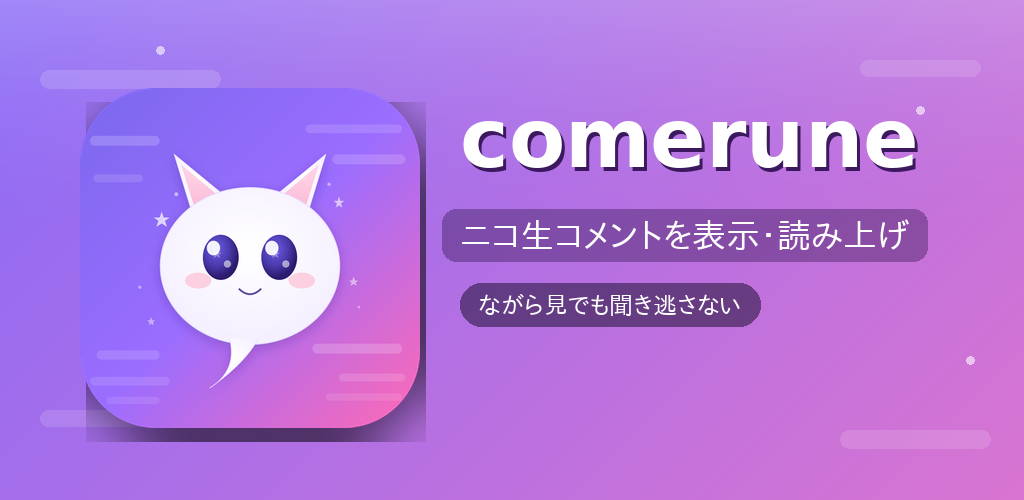
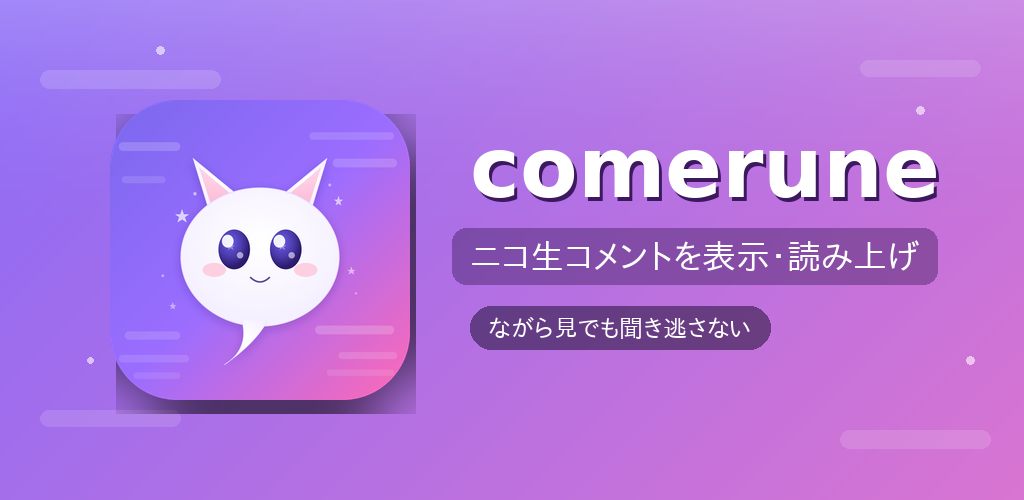
fix(play-store): improve vertical whitespace balance
- アイコンを 340px → 300px に縮小し、上下に約100pxの余白を確保
- 右側セーフゾーンを 80px に調整（タイトルに少し余裕を持たせる）
- テキストブロック（タイトル/サブコピー/ピル）を視覚的に中央配置するよう
  ブロック高さを先に計算してから Y 座標を決定する方式に変更

https://claude.ai/code/session_01Lvd1uykLmiU1AKgUGvPr9s

Changed region(s): [[0.0625, 0.15, 0.9375, 0.9]]

diff --git a/scripts/generate-play-store-feature-graphic.py b/scripts/generate-play-store-feature-graphic.py
@@ -136,19 +136,20 @@ def main() -> int:
     add_decorative_bars(bg)
 
     icon = Image.open(ICON_PATH).convert("RGBA")
-    icon_size = 340
+    icon_size = 300
     icon = icon.resize((icon_size, icon_size), Image.LANCZOS)
     icon = round_corners(icon, radius=int(icon_size * 0.22))
     icon_with_shadow = drop_shadow(icon, offset=(6, 14), blur=22, opacity=140)
 
-    icon_x = 80 - 44
-    icon_y = (H - icon_size) // 2 - 36
+    shadow_pad = 22 * 2
+    icon_x = 110 - shadow_pad
+    icon_y = (H - icon_size) // 2 - shadow_pad
     bg.alpha_composite(icon_with_shadow, (icon_x, icon_y))
 
     draw = ImageDraw.Draw(bg)
 
-    safe_right = 100
-    text_left = 460
+    safe_right = 80
+    text_left = 470
 
     title = "comerune"
     title_font = load_latin_font(110)
@@ -158,43 +159,56 @@ def main() -> int:
     if title_w > max_title_w:
         title_font = load_latin_font(int(110 * max_title_w / title_w))
         tbbox = draw.textbbox((0, 0), title, font=title_font)
-    tx = text_left
-    ty = 90
-    draw.text((tx + 3, ty + 4), title, font=title_font, fill=(60, 25, 95, 160))
-    draw.text((tx, ty), title, font=title_font, fill=(255, 255, 255, 255))
-
-    title_ascent, title_descent = title_font.getmetrics()
-    title_bottom_y = ty + title_ascent + title_descent
+    title_visual_top = tbbox[1]
+    title_visual_h = tbbox[3] - tbbox[1]
 
     sub_font = load_jp_font(34)
     subtitle = "ニコ生コメントを表示・読み上げ"
     sbbox = draw.textbbox((0, 0), subtitle, font=sub_font)
     sub_w = sbbox[2] - sbbox[0]
     sub_h = sbbox[3] - sbbox[1]
-    sx = tx
-    sy = title_bottom_y + 32
-    plate_pad_x, plate_pad_y = 18, 10
-    plate_box = (
-        sx - plate_pad_x,
-        sy - plate_pad_y,
-        sx + sub_w + plate_pad_x,
-        sy + sub_h + plate_pad_y,
-    )
-    draw_plate(bg, plate_box, radius=14, fill=(40, 15, 70, 95))
-    draw.text((sx, sy - sbbox[1]), subtitle, font=sub_font, fill=(255, 255, 255, 255))
 
     tag_font = load_jp_font(24)
     tag = "ながら見でも聞き逃さない"
-    tbbox2 = draw.textbbox((0, 0), tag, font=tag_font)
-    tw = tbbox2[2] - tbbox2[0]
-    th = tbbox2[3] - tbbox2[1]
-    pad_x, pad_y = 18, 10
-    bx0 = tx
-    by0 = plate_box[3] + 22
-    bx1 = bx0 + tw + pad_x * 2
-    by1 = by0 + th + pad_y * 2
-    draw_plate(bg, (bx0, by0, bx1, by1), radius=(by1 - by0) // 2, fill=(20, 10, 40, 130))
-    draw.text((bx0 + pad_x, by0 + pad_y - tbbox2[1]), tag, font=tag_font, fill=(255, 255, 255, 255))
+    gbbox = draw.textbbox((0, 0), tag, font=tag_font)
+    tag_w = gbbox[2] - gbbox[0]
+    tag_h = gbbox[3] - gbbox[1]
+
+    sub_pad_x, sub_pad_y = 18, 12
+    tag_pad_x, tag_pad_y = 18, 10
+    gap_title_sub = 30
+    gap_sub_tag = 22
+
+    sub_plate_h = sub_h + sub_pad_y * 2
+    tag_plate_h = tag_h + tag_pad_y * 2
+    block_h = title_visual_h + gap_title_sub + sub_plate_h + gap_sub_tag + tag_plate_h
+    block_top = (H - block_h) // 2
+
+    title_y_for_visual_top = block_top - title_visual_top
+    tx = text_left
+    ty = title_y_for_visual_top
+    draw.text((tx + 3, ty + 4), title, font=title_font, fill=(60, 25, 95, 160))
+    draw.text((tx, ty), title, font=title_font, fill=(255, 255, 255, 255))
+
+    sub_plate_top = block_top + title_visual_h + gap_title_sub
+    sub_plate_box = (
+        tx - sub_pad_x,
+        sub_plate_top,
+        tx + sub_w + sub_pad_x,
+        sub_plate_top + sub_plate_h,
+    )
+    draw_plate(bg, sub_plate_box, radius=14, fill=(40, 15, 70, 95))
+    draw.text((tx, sub_plate_top + sub_pad_y - sbbox[1]), subtitle, font=sub_font, fill=(255, 255, 255, 255))
+
+    tag_plate_top = sub_plate_box[3] + gap_sub_tag
+    tag_plate_box = (
+        tx,
+        tag_plate_top,
+        tx + tag_w + tag_pad_x * 2,
+        tag_plate_top + tag_plate_h,
+    )
+    draw_plate(bg, tag_plate_box, radius=tag_plate_h // 2, fill=(20, 10, 40, 130))
+    draw.text((tx + tag_pad_x, tag_plate_top + tag_pad_y - gbbox[1]), tag, font=tag_font, fill=(255, 255, 255, 255))
 
     final = bg.convert("RGB")
     OUT_PATH.parent.mkdir(parents=True, exist_ok=True)
